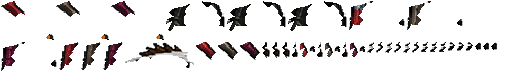
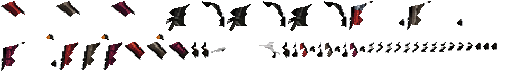
Bıçak savuruşunda şapkanın üstünden taşan tutamlar gizleniyor
knife_attack 4. karede koyu tutamlar baştan kopuk ve izle tek parça olduğu
için ön parça sayılıp şapkanın önüne çiziliyordu. Araç başa yakın, orta boy,
sıcak-koyu ayrı lekeleri saç tutamı sayıyor; ön parçadan çıkarıp başlık
bitleriyle gizliyor. 236 hücrede yalnız bu kare değişti.

Changed region(s): [[0.2188, 0.5833, 0.5625, 0.9444]]

diff --git a/redmount/tools/gen_costume_accessory.py b/redmount/tools/gen_costume_accessory.py
@@ -52,6 +52,34 @@ def _masks(rgba: np.ndarray):
 	return hair, skin
 
 
+def _tufts(rgba: np.ndarray, head: np.ndarray) -> np.ndarray:
+	"""Baş lekesinden kopuk koyu saç tutamları (doygun saç maskesine girmeyenler).
+
+	Bıçak savuruşunda (`knife_attack` 4) sivri tutamlar neredeyse siyah çizilmiş ve iz
+	tutamların dibinden geçtiği için baştan kopuk; `hair` maskesine girmeyip izle tek
+	parça olunca ön parça sayılıyor, şapkanın önüne çiziliyordu. Tutam: başa HAIR_REACH
+	içinde yaklaşan, orta boy (TUFT_MIN_PX..TUFT_MAX_PX), çoğu sıcak koyu (r − b ≥ 6)
+	ayrı leke. Başa değen koyu lekeler (kontur + el + sopa tek parça) bilerek dışarıda:
+	geodezik büyüme sopa ve elin ön parçasını da yiyordu.
+	"""
+	rgb = rgba[..., :3].astype(np.int16)
+	r, b = rgb[..., 0], rgb[..., 2]
+	mx = rgb.max(axis=2)
+	dark = (rgba[..., 3] >= 128) & (mx < TUFT_MAX) & (r >= b) & ((r - b >= 6) | (mx < 16))
+	warm = dark & (r - b >= 6) & (mx >= 16)
+	out = np.zeros(head.shape, bool)
+	lab, n = ndimage.label(dark & ~head, np.ones((3, 3)))
+	if n == 0 or not head.any():
+		return out
+	idx = np.arange(1, n + 1)
+	size = ndimage.sum(dark, lab, index=idx)
+	frac = ndimage.mean(warm, lab, index=idx)
+	dist = ndimage.distance_transform_edt(~head)
+	dmin = ndimage.minimum(dist, lab, index=idx)
+	ok = (frac >= TUFT_WARM) & (dmin > 1.5) & (dmin <= HAIR_REACH) & (size >= TUFT_MIN_PX) & (size <= TUFT_MAX_PX)
+	return np.isin(lab, idx[ok])
+
+
 def cell_anchor(rgba: np.ndarray):
 	hair, skin = _masks(rgba)
 	if not hair.any():
@@ -125,6 +153,11 @@ def build_anchors(front: dict | None = None) -> dict:
 
 FRONT_PAD = 1
 FRONT_MIN = 30          # bundan küçük kırıntılar (saç tutamı ucu, kontur) atlanır
+TUFT_MAX = 70           # koyu saç tutamının en parlak kanalı (sopa ahşabı daha açık)
+TUFT_WARM = 0.5         # ayrı koyu lekenin tutam sayılması için sıcak piksel oranı
+TUFT_MAX_PX = 400       # bundan büyük koyu leke tutam değil (kol, sopa)
+TUFT_MIN_PX = 40        # bundan küçük koyu kırıntı (kol kıvrımı, kaş) tutam değil
+SPECK_PX = 8            # tutam yanında bundan küçük görünür kırıntı da gizlenir
 
 
 def _footprint():
@@ -171,6 +204,7 @@ def front_mask(cell: np.ndarray, a: list, footprint: np.ndarray):
 	if n:
 		sizes = ndimage.sum(hair, lab, index=np.arange(1, n + 1))
 		head = (lab == int(np.argmax(sizes)) + 1) & hair
+		head |= _tufts(cell, head)
 	near = ndimage.binary_dilation(head, iterations=3)
 	sl, sn = ndimage.label(skin)
 	if sn:
@@ -254,9 +288,16 @@ def hair_over_hat(cell: np.ndarray, a: list, footprint: np.ndarray) -> np.ndarra
 		return bits
 	sizes = ndimage.sum(hair, lab, index=np.arange(1, n + 1))
 	head = (lab == int(np.argmax(sizes)) + 1) & hair
+	tufts = _tufts(cell, head)
+	if tufts.any():
+		# tutamın izle karıştığı kenar pikselleri (gri-kahve ara ton) da tutamdır; yoksa
+		# şapkanın üstünde kahve kırıntılar kalıyordu
+		rgb = cell[..., :3].astype(np.int16)
+		warmish = (rgb[..., 0] - rgb[..., 2] >= 6) & (rgb.max(axis=2) < 160) & opaque & ~skin
+		tufts |= ndimage.binary_dilation(tufts, iterations=3) & warmish
 	# saç tutamlarının koyu kontur/gölge pikselleri doygun saç maskesine girmez; baş
 	# bölgesi bu yüzden HAIR_REACH kadar genişletilir
-	near = ndimage.binary_dilation(ndimage.binary_fill_holes(head), iterations=HAIR_REACH)
+	near = ndimage.binary_dilation(ndimage.binary_fill_holes(head), iterations=HAIR_REACH) | tufts
 	# baştan ayrı büyük parçalar (eller, silah) korunur
 	far = opaque & ~near
 	fl, fn_ = ndimage.label(far)
@@ -267,8 +308,8 @@ def hair_over_hat(cell: np.ndarray, a: list, footprint: np.ndarray) -> np.ndarra
 	if protect.any():
 		# el/silah baş bölgesine girdiği yerde de korunur: saç olmayan pikseller boyunca büyüt
 		for _ in range(HAIR_REACH + 2):
-			protect = ndimage.binary_dilation(protect) & opaque & ~hair
-		protect = ndimage.binary_dilation(protect)
+			protect = ndimage.binary_dilation(protect) & opaque & ~hair & ~tufts
+		protect = ndimage.binary_dilation(protect) & ~tufts
 	# başlığın önüne çizilen parçalar (el, silah, savuruş izi) ve kenar konturları korunur;
 	# yalnız 2 px: daha fazlası izin altındaki saç tutamlarına yayılıyordu
 	keep = front_mask(cell, a, footprint)
@@ -276,6 +317,7 @@ def hair_over_hat(cell: np.ndarray, a: list, footprint: np.ndarray) -> np.ndarra
 		protect |= ndimage.binary_dilation(keep, iterations=2)
 	cand = opaque & near & ~protect & ~skin
 	h, w = opaque.shape
+	above = np.zeros(opaque.shape, bool)
 	for hat_id, bit in HAIR_BITS.items():
 		hm = _hat_mask(hat_id)
 		x0, y0 = cx - PIVOT[0], top + 16 - PIVOT[1]
@@ -287,6 +329,21 @@ def hair_over_hat(cell: np.ndarray, a: list, footprint: np.ndarray) -> np.ndarra
 			y_top = max(0, min(h, y0 + int(col.min())))
 			sel = cand[:y_top, x]
 			bits[:y_top, x][sel] |= bit
+			above[:y_top, x] = True
+		if tufts.any():
+			# gizlenen tutamın dış kontur halkası şapkanın üstünde tek tük nokta bırakıyordu:
+			# tutam yanında kalan küçük görünür kırıntılar da gizlenir (iz çizgileri büyük kalır)
+			vis = opaque & above & ((bits & bit) == 0)
+			if keep is not None:
+				vis &= ~keep
+			vl, vn = ndimage.label(vis, np.ones((3, 3)))
+			if vn:
+				idx = np.arange(1, vn + 1)
+				vs = ndimage.sum(vis, vl, index=idx)
+				near_t = ndimage.binary_dilation(tufts, iterations=4)
+				touch = ndimage.maximum(near_t, vl, index=idx) > 0
+				bits[np.isin(vl, idx[(vs < SPECK_PX) & touch])] |= bit
+		above[:] = False
 	return bits
 
 

diff --git a/redmount/docs/TASARIM_GUNLUGU.md b/redmount/docs/TASARIM_GUNLUGU.md
@@ -7,9 +7,6 @@ iyileştirme yapar; sayılar insan testi gelene kadar hipotezdir.
 
 Sıradaki adaylar (üstteki önce). Yol haritasında açık madde varken önce o yapılır.
 
-- Bıçak savuruşu (`knife_attack` 4): savuruş izi büyük parça olarak korunduğu için altındaki
-  saç tutamları kasket/kaptan şapkasının üstünde kalıyor (tek hızlı kare). Gerekirse
-  korumayı ize değil yalnız saç olmayan, izden 2 px'ten uzak pikselle sınırla.
 - Pantolon maskesinde kalan kaçaklar: koşu karelerinde ceketin arka eteği, tekmede dizde
   birkaç ceket rengi piksel; gölgedeki arka bacak bazen ceket rampasında. Gerekirse
   `tools/gen_costume_mask.py` sonrası kare başına elle düzeltme maskesi (küçük PNG).
@@ -30,11 +27,49 @@ Sıradaki adaylar (üstteki önce). Yol haritasında açık madde varken önce o
   zor, ikinci koşuda alınabilir); `par_time` her `Bolum*.tscn`'de elle.
 - Sonuç kartında önceki koşularda kazanılmış ama bu koşuda alınamamış yıldızı soluk
   altınla göstermek (oyuncu neyin kalıcı olduğunu görsün).
+- Bıçak savuruşu (`knife_attack` 4) kalıntısı: şapkanın üstünde 1–2 sanat pikseli koyu nokta
+  kalıyor (iz ön parçasının içinde ya da ≥ 8 px). İnsan testinde fark edilirse ön parçadan da
+  tutam kenarı ayıkla.
 - Telefonda dokunmatik ölçüm: yanlış/kaçırılan basış sayacı (insan testi formuyla bağlanacak).
 - KAY düğmesinin yeri gerçek cihazda başparmak erişimiyle doğrulanacak; gerekirse
   oyuncu düğme düzenini sürükleyerek kaydedebilsin (Save'e `touch_layout`).
 
 ## Tur kayıtları
+
+### 2026-10-24 (10) — Bıçak savuruşunda şapkanın üstündeki tutamlar
+
+**Neden şimdi:** Yol haritasında açık madde yok, P1 maddelerinin hepsinin ilk dilimleri
+oyunda; birikimin başı bu kusurdu. Ölçünce sorun notta sanılandan büyük çıktı: bu karede
+sivri tutamlar neredeyse siyah çizildiği için doygun saç maskesine girmiyor, bıçak izi
+tutamların dibinden geçtiği için de baştan kopuk duruyor; iz ile tek parça olunca **ön
+parça** sayılıp şapkanın ÖNÜNE çiziliyordu (kaptan şapkasında yalnız 2 piksel gizliydi).
+
+**Oyuncu ne hissedecek:** Başlıklı kostümle bıçak sallarken saç şapkayı delmiyor; şapka
+silüeti diğer karelerle aynı, savuruş izi şapkanın üstünden geçmeye devam ediyor.
+
+**Yapılanlar:**
+- `tools/gen_costume_accessory.py` `_tufts()`: baş lekesine HAIR_REACH (8 px) içinde
+  yaklaşan, 40–400 px boyunda, çoğu sıcak koyu (r − b ≥ 6, en parlak kanal < 70) ayrı
+  koyu leke saç tutamıdır. `front_mask` bunu başa katar (ön parça olmaz); `hair_over_hat`
+  bunları korumadan çıkarır, izle karışan gri-kahve kenarlarını (3 px, < 160) ve tutam
+  yanında kalan < 8 px görünür kırıntıları da gizler.
+- İlk deneme (baştan koyu pikseller boyunca geodezik büyüme) sopa/anahtar/şemsiye
+  karelerinde el ve sopanın ön parçasını yiyordu (bat_attack2/0: 178 → 0 px); ikinci
+  denemede 40 px alt sınır yokken kol kıvrımı kırıntıları tutam sayılıp kolu şapkanın
+  arkasına atıyordu. Son hâlde 236 hücrenin ön parça/işaret sayılarını önce/sonra
+  karşılaştırdım: **yalnız `knife_attack/4` değişiyor** (ön parça 525 → 126 px; gizli
+  tutam vapurcu 2 → 396, hamal 8 → 309, kahveci 62 → 535 px).
+- `tests/costume_accessory.gd`: bıçak karesinde kaptan şapkası bitli > 300 piksel.
+
+**Testler:** `--import` hata yok; `campaign_smoke.gd` çıkış 0; `dtm_gaps` PASS;
+`costume_accessory` (genişletildi), `costumes` PASS; bot Bölüm 1 (95,3 sn), 13 (78,7 sn),
+25 (80,2 sn) CLEARED.
+
+**Görsel kanıt:** Araç önce/sonra önizlemesi (3 başlık, 3× büyütme) ve 1280×720 pencereli
+oyun içi görüntü (üç kostüm, `knife_attack` 4. kare): tırtıklı tutamlar gitti, iz duruyor;
+şapka üstünde 1 piksellik koyu nokta kaldı (birikimde).
+
+**Sonraki öneri:** Pantolon maskesindeki kaçaklar (birikimin yeni başı).
 
 ### 2026-10-24 (9) — Şapkanın üstünden taşan saç gizlendi
 
